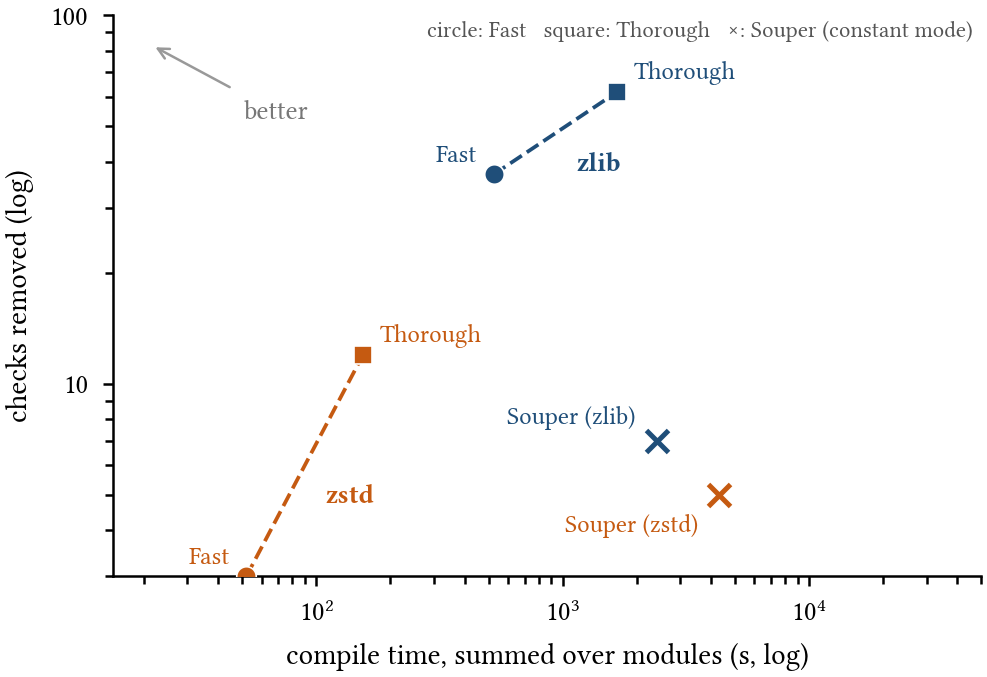
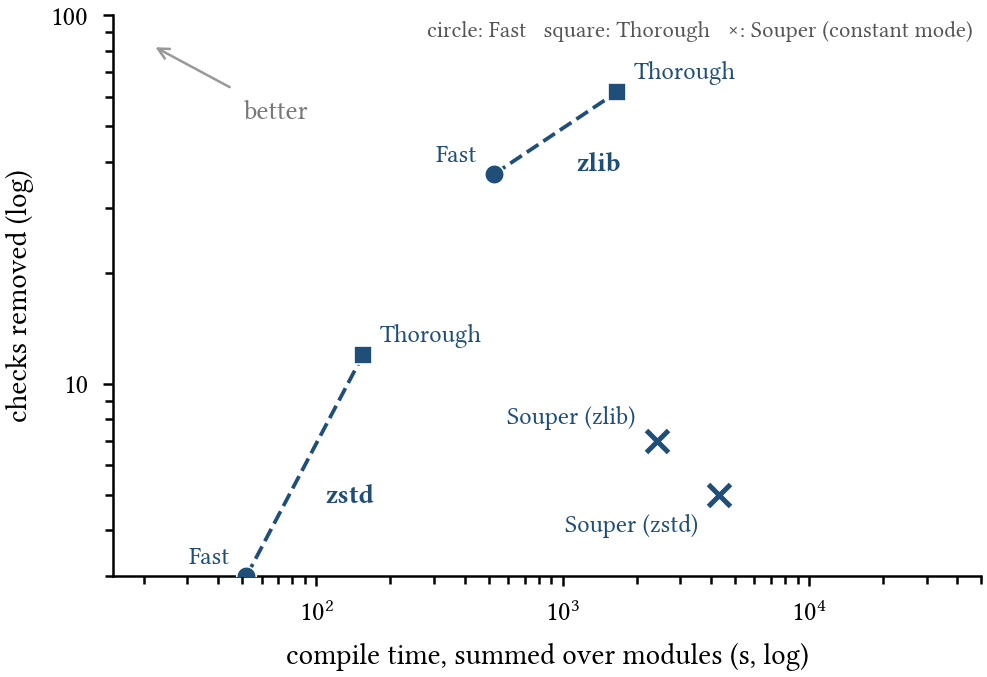
paper: Souper library figure, ODeSSy in one blue in both panels, panels further apart and wider

diff --git a/figs/rq4_proto/plot_rq4.py b/figs/rq4_proto/plot_rq4.py
@@ -35,7 +35,7 @@ plt.rcParams.update({
     "ytick.major.width": 0.6, "pdf.fonttype": 42, "ps.fonttype": 42,
 })
 
-LIB_COLOR = {"zlib": "#1f4e79", "zstd": "#c55a11"}
+LIB_COLOR = {"zlib": "#1f4e79", "zstd": "#1f4e79"}   # one color for ODeSSy in both panels
 SOUPER_COLOR = "black"
 W = 3.3                                  # acmsmall single column, inches
 CEGIS = (8749.0, 0)                      # Souper CEGIS on zlib's deflate.c (souper_pilot)
@@ -125,7 +125,7 @@ def variant_A(d, logy, name):
 
 
 def variant_B(d, logy, name):
-    fig, axes = plt.subplots(1, 2, figsize=(W, 2.0), sharex=True)
+    fig, axes = plt.subplots(1, 2, figsize=(1.5 * W, 2.0), sharex=True)
     for ax, lib in zip(axes, ("zlib", "zstd")):
         style(ax, logy)
         frontier(ax, lib, d, LIB_COLOR[lib])
@@ -139,7 +139,7 @@ def variant_B(d, logy, name):
         ax.set_title(f"{lib} ({ {'zlib': 14, 'zstd': 18}[lib] } modules)", fontsize=7, pad=3)
     axes[0].set_ylabel("checks removed" + (" (log)" if logy else ""))
     fig.supxlabel("compile time, summed over modules (s, log)", fontsize=7, y=0.02)
-    fig.tight_layout(pad=0.3, w_pad=0.8)
+    fig.tight_layout(pad=0.3, w_pad=2.5)
     save(fig, name)
 
 

diff --git a/paper/main.tex b/paper/main.tex
@@ -1655,7 +1655,7 @@ clang~18.
 
 \begin{figure}[t]
 \centering
-\includegraphics[width=3.3in]{souper_libraries.pdf}
+\includegraphics[width=0.9\linewidth]{souper_libraries.pdf}
 \caption{Checks removed against compile time on every module of zlib and
 zstd (x86, the same LLVM~18 IR for both tools). Time is summed over
 modules and includes the \texttt{-O3} that follows each tool; checks are
